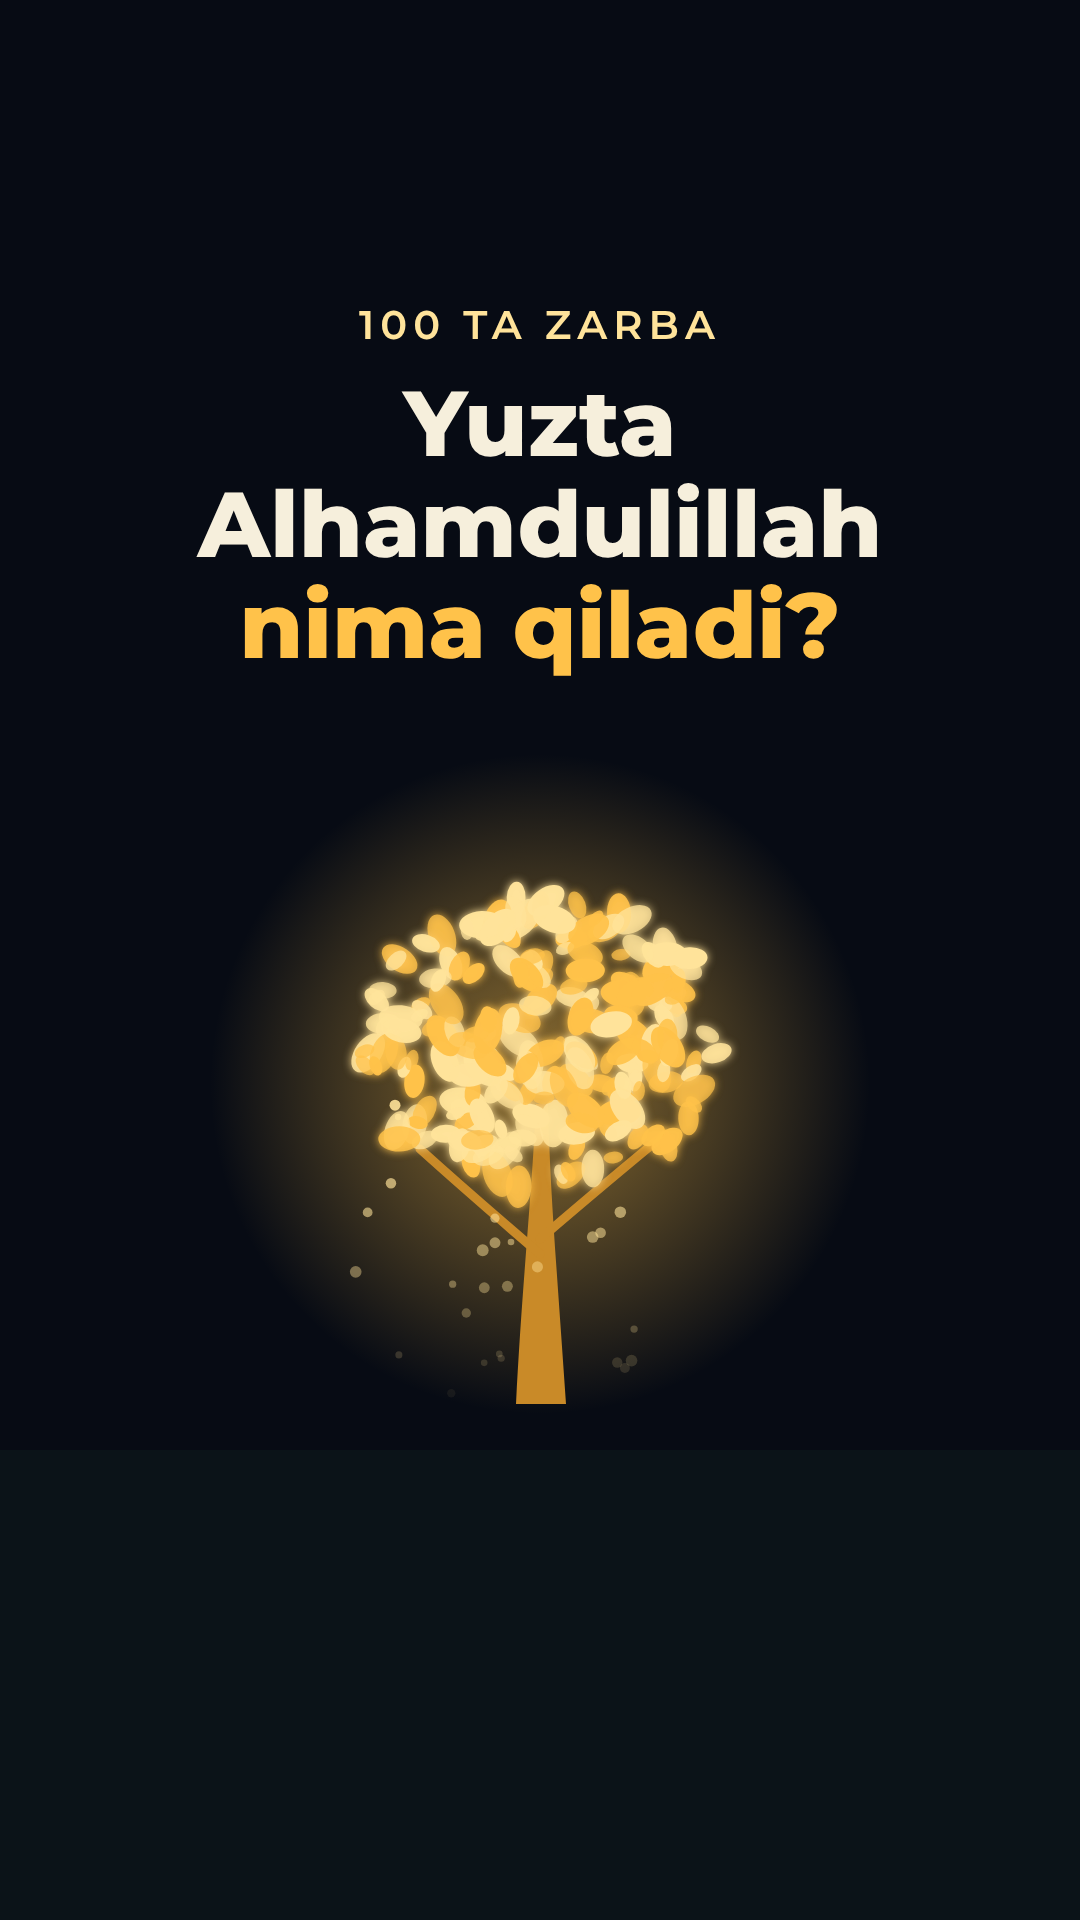
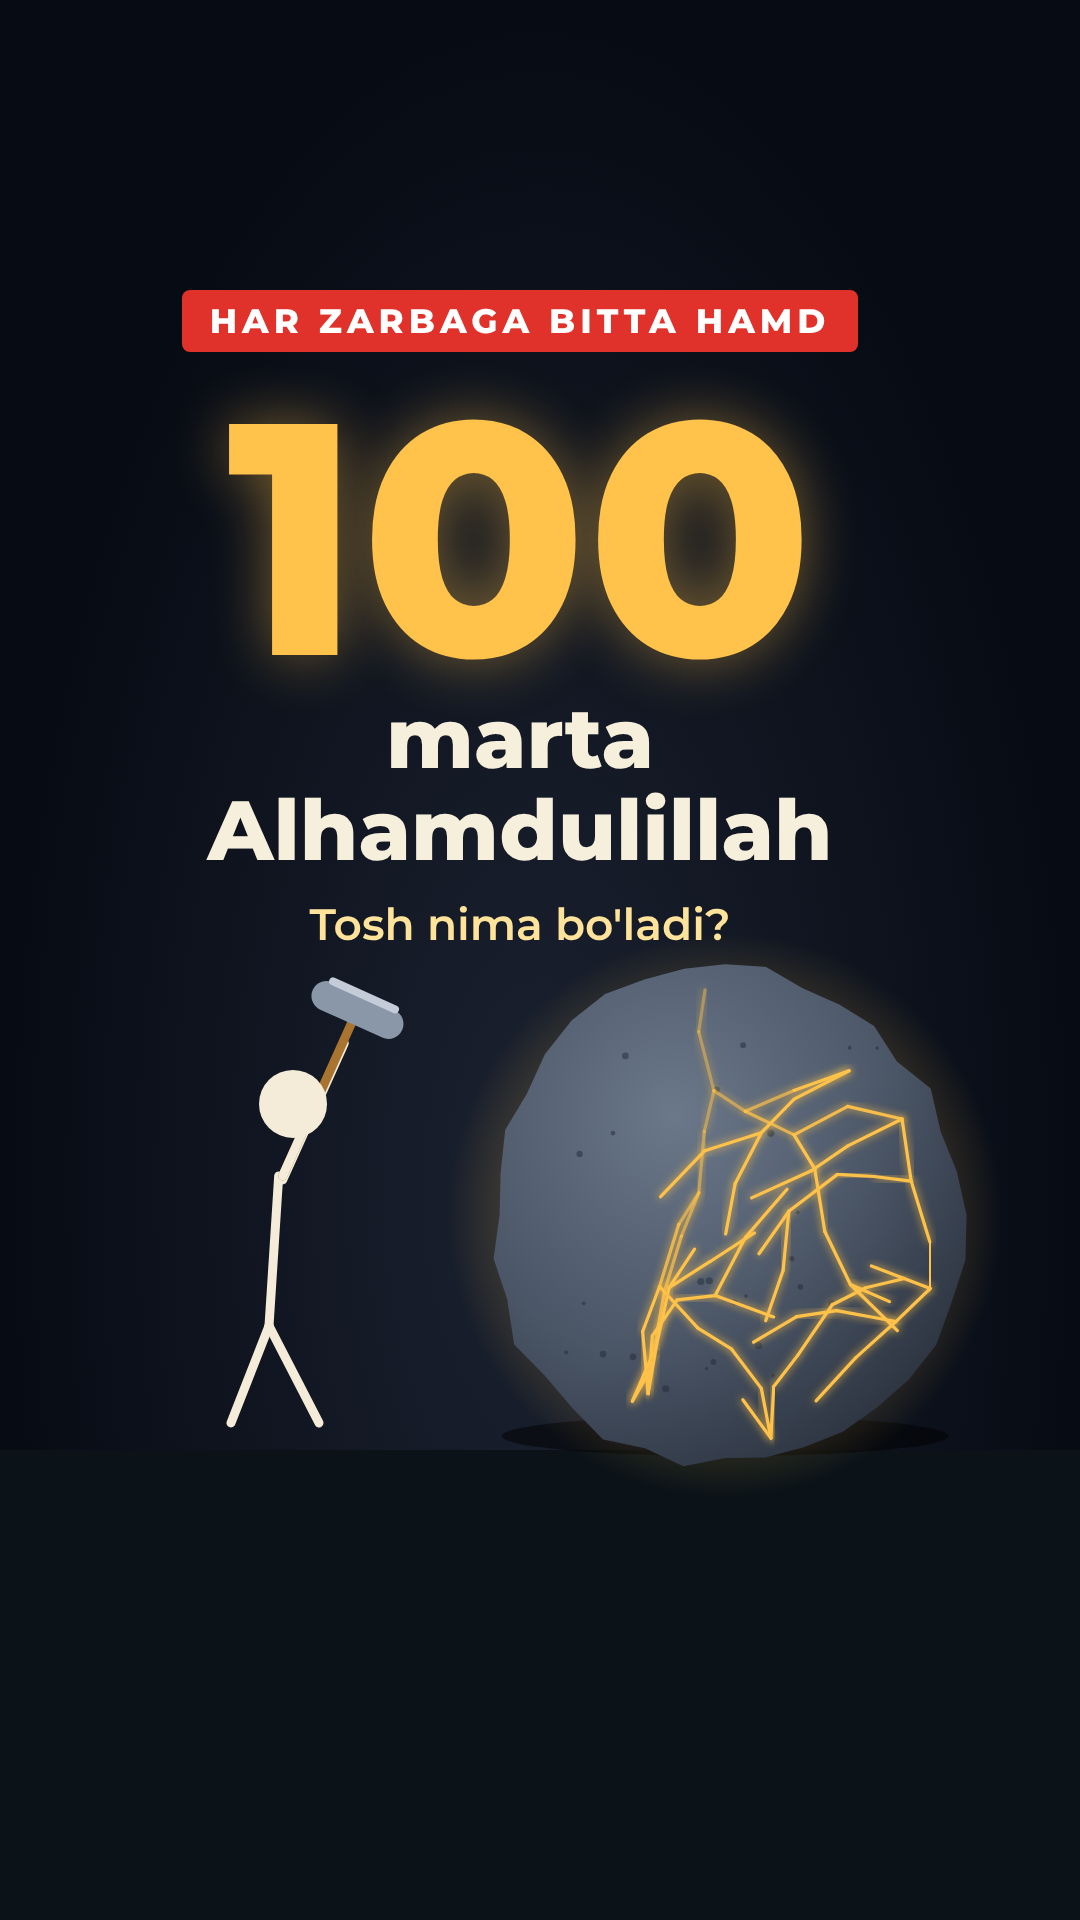
Новая обложка Alham40
Claude-Session: https://claude.ai/code/session_016ssCvh2DJHXZLhiNQtK3gf

Changed region(s): [[0.1528, 0.125, 0.9167, 0.7812], [0.275, 0.7188, 0.3056, 0.75]]

diff --git a/reels/src/Alham40.tsx b/reels/src/Alham40.tsx
@@ -331,20 +331,29 @@ export const Alham40: React.FC<{guide?: boolean}> = ({guide = false}) => {
 
 export const Alham40Cover: React.FC = () => {
   loadFonts();
+  const f = IM[69] + 12;
   return (
-    <AbsoluteFill style={{background: '#070b14'}}>
+    <AbsoluteFill style={{background: 'radial-gradient(ellipse at 50% 62%, #1b2230 0%, #070b14 70%)'}}>
       <svg width={1080} height={1920} viewBox="0 0 1080 1920" style={{position: 'absolute', inset: 0}}>
         <defs>
-          <radialGradient id="halo2"><stop offset="0" stopColor={GOLD} stopOpacity="0.55" /><stop offset="1" stopColor={GOLD} stopOpacity="0" /></radialGradient>
+          <radialGradient id="rock" cx="0.38" cy="0.3" r="0.9"><stop offset="0" stopColor="#6b7889" /><stop offset="0.55" stopColor="#4a5566" /><stop offset="1" stopColor="#2a3240" /></radialGradient>
+          <linearGradient id="rockDark" x1="0" y1="0" x2="1" y2="1"><stop offset="0.5" stopColor="#000" stopOpacity="0" /><stop offset="1" stopColor="#000" stopOpacity="0.45" /></linearGradient>
+          <radialGradient id="halo"><stop offset="0.55" stopColor={GOLD} stopOpacity="0" /><stop offset="0.82" stopColor={GOLD} stopOpacity="0.28" /><stop offset="1" stopColor={GOLD} stopOpacity="0" /></radialGradient>
           <filter id="glow" x="-30%" y="-30%" width="160%" height="160%"><feGaussianBlur stdDeviation="4" result="b" /><feMerge><feMergeNode in="b" /><feMergeNode in="SourceGraphic" /></feMerge></filter>
+          <clipPath id="bclip"><path d={blobPath} /></clipPath>
         </defs>
         <rect x={0} y={GROUND} width={1080} height={470} fill="#0b1318" />
-        <g transform="translate(-165 -40)"><Tree k={1} f={40} /></g>
+        <g transform="translate(20 -20)">
+          <ellipse cx={BX} cy={GROUND + 6} rx={BRX * 0.95} ry={20} fill="#000" opacity={0.5} />
+          <Boulder f={f} n={70} jolt={9} split={0} />
+          <Person f={IM[69] - 2} broke={0} />
+        </g>
       </svg>
-      <div style={{position: 'absolute', left: 80, width: 920, top: 300, textAlign: 'center', fontFamily: MONT}}>
-        <div style={{fontWeight: 600, fontSize: 40, letterSpacing: 6, color: GOLD2}}>100 TA ZARBA</div>
-        <div style={{fontWeight: 800, fontSize: 92, lineHeight: 1.1, color: CREAM, marginTop: 24}}>Yuzta Alhamdulillah</div>
-        <div style={{fontWeight: 800, fontSize: 92, lineHeight: 1.1, color: GOLD}}>nima qiladi?</div>
+      <div style={{position: 'absolute', left: 80, width: 880, top: 290, textAlign: 'center', fontFamily: MONT}}>
+        <div style={{display: 'inline-block', background: '#e0322a', color: '#fff', fontWeight: 800, fontSize: 34, letterSpacing: 5, padding: '10px 28px', borderRadius: 8}}>HAR ZARBAGA BITTA HAMD</div>
+        <div style={{fontWeight: 800, fontSize: 330, lineHeight: 1, color: GOLD, marginTop: 20, textShadow: '0 0 60px rgba(255,194,74,.45)'}}>100</div>
+        <div style={{fontWeight: 800, fontSize: 84, lineHeight: 1.1, color: CREAM, marginTop: -10}}>marta Alhamdulillah</div>
+        <div style={{fontWeight: 600, fontSize: 44, color: GOLD2, marginTop: 20}}>Tosh nima bo'ladi?</div>
       </div>
     </AbsoluteFill>
   );
